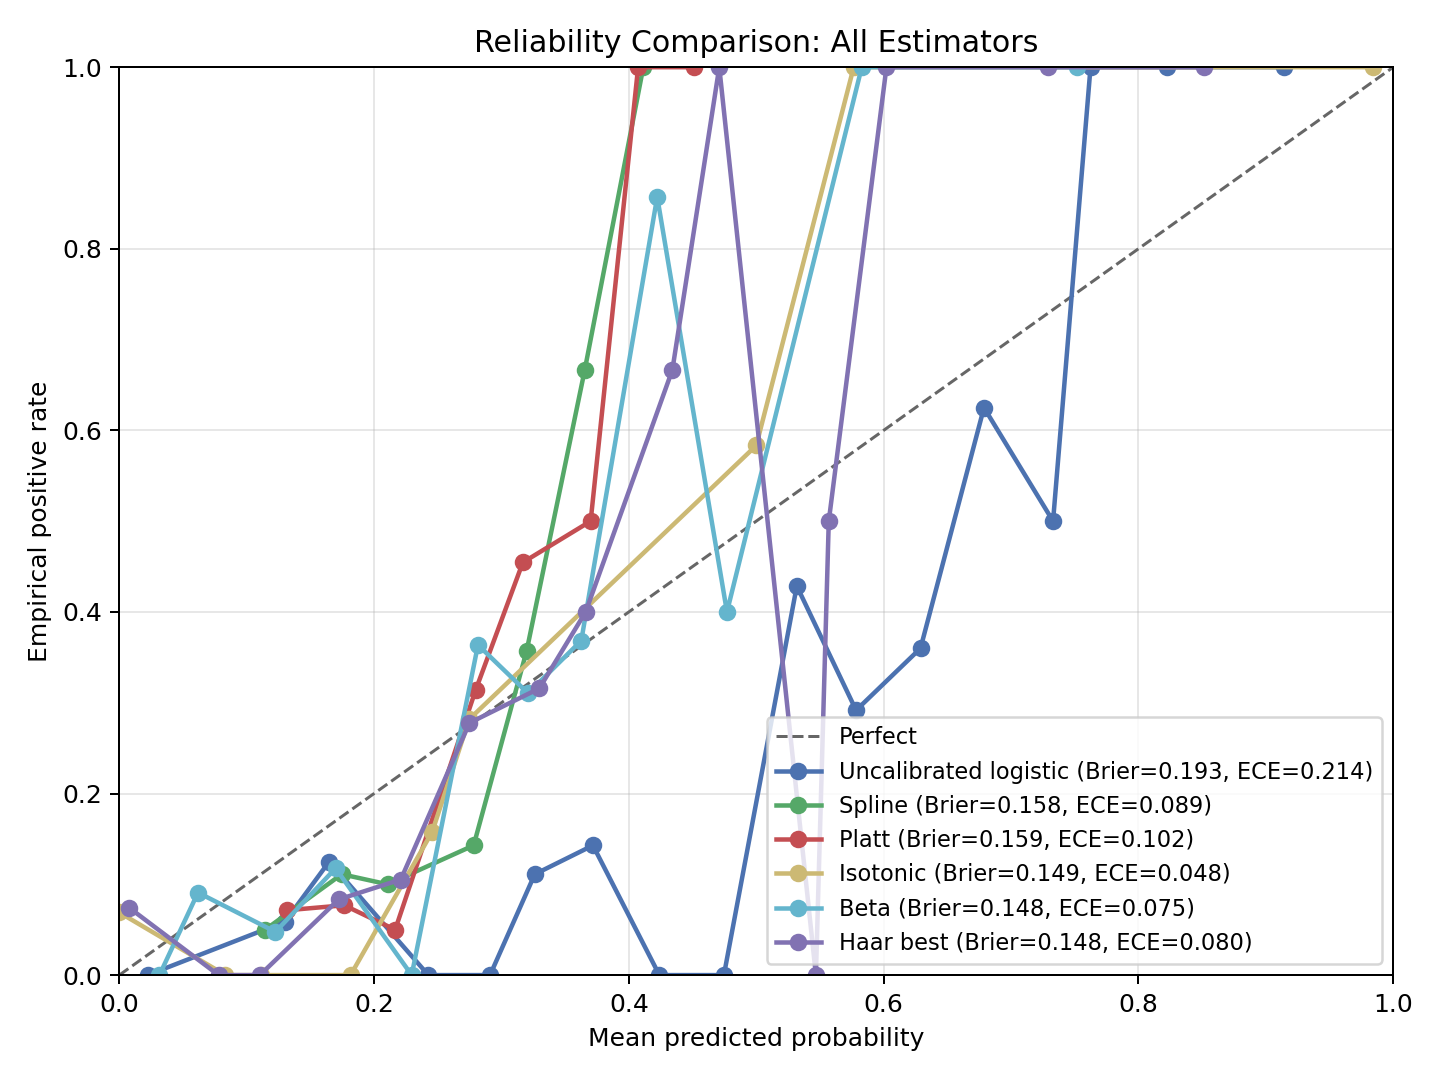
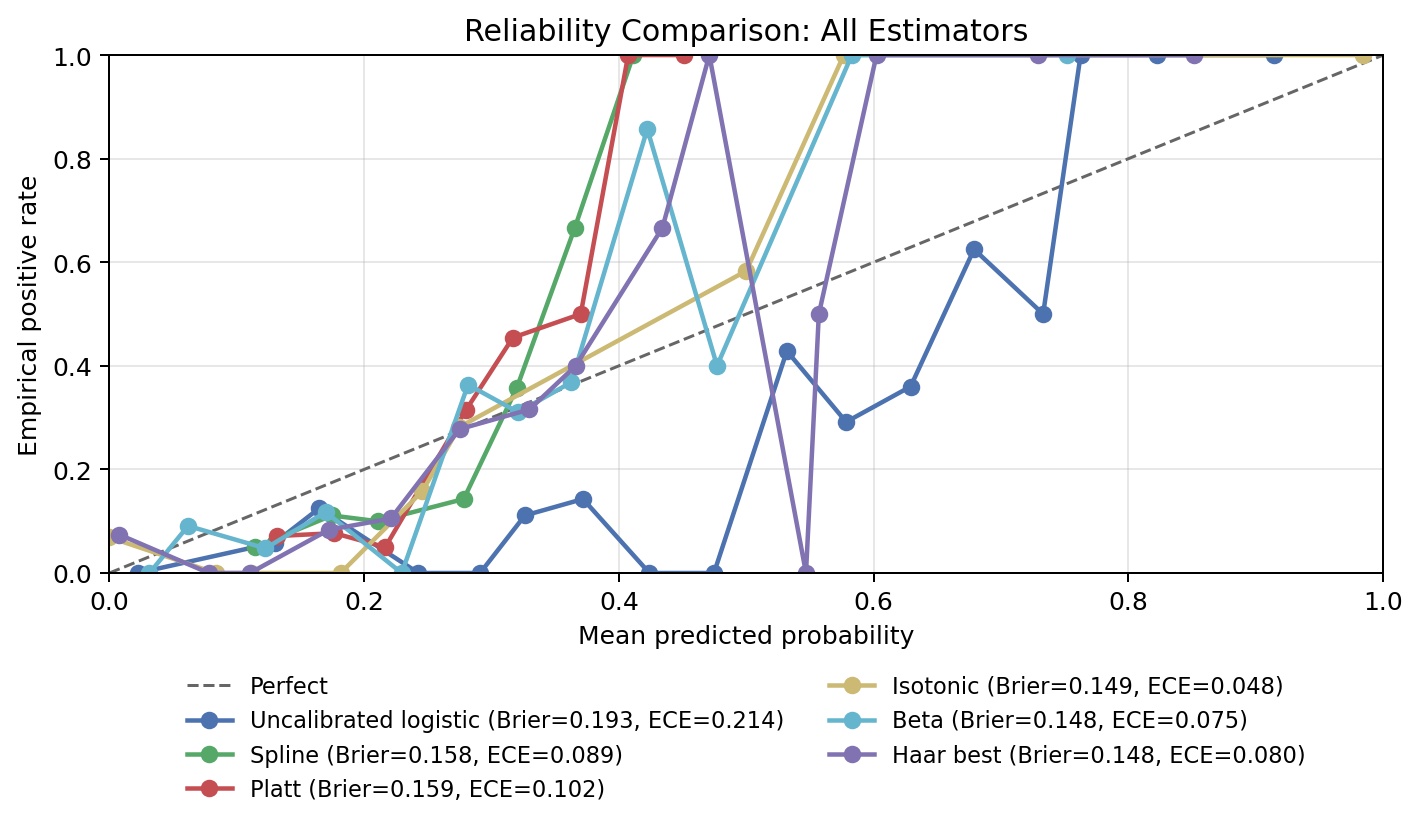
Polishing the plotting method

diff --git a/analysis/scripts/run_tabarena_haar_experiment.py b/analysis/scripts/run_tabarena_haar_experiment.py
@@ -1025,9 +1025,16 @@ def _save_reliability_comparison_plot(
     ax.set_ylabel("Empirical positive rate")
     ax.set_title("Reliability Comparison: All Estimators")
     ax.grid(alpha=0.3)
-    ax.legend(loc="lower right", fontsize=9)
-    fig.tight_layout()
-    fig.savefig(output_path, dpi=180)
+    ax.legend(
+        loc="upper center",
+        bbox_to_anchor=(0.5, -0.18),
+        borderaxespad=0.0,
+        fontsize=9,
+        frameon=False,
+        ncol=2,
+    )
+    fig.tight_layout(rect=(0.0, 0.16, 1.0, 1.0))
+    fig.savefig(output_path, dpi=180, bbox_inches="tight")
     plt.close(fig)
     return output_path
 
@@ -1152,9 +1159,15 @@ def _save_estimator_comparison_plot(
     ax.set_ylabel("Calibrated probability")
     ax.set_title("Estimator Mapping Comparison")
     ax.grid(alpha=0.3)
-    ax.legend(loc="lower right")
-    fig.tight_layout()
-    fig.savefig(output_plot_path, dpi=180)
+    ax.legend(
+        loc="upper center",
+        bbox_to_anchor=(0.5, -0.18),
+        borderaxespad=0.0,
+        frameon=False,
+        ncol=2,
+    )
+    fig.tight_layout(rect=(0.0, 0.16, 1.0, 1.0))
+    fig.savefig(output_plot_path, dpi=180, bbox_inches="tight")
     plt.close(fig)
     return output_plot_path, output_table_path
 

diff --git a/packages/splinecal/src/splinecal/plotting.py b/packages/splinecal/src/splinecal/plotting.py
@@ -103,7 +103,8 @@ def plot_reliability_diagram(
     acc = points[:, 1]
     valid = ~np.isnan(conf) & ~np.isnan(acc)
 
-    if ax is None:
+    created_figure = ax is None
+    if created_figure:
         fig, ax_main = plt.subplots(figsize=(7, 6))
     else:
         fig = ax.figure
@@ -160,8 +161,16 @@ def plot_reliability_diagram(
             bbox={"boxstyle": "round", "facecolor": "white", "alpha": 0.8, "edgecolor": "#bbbbbb"},
         )
 
-    ax_main.legend(loc="lower right")
+    ax_main.legend(
+        loc="upper center",
+        bbox_to_anchor=(0.5, -0.14),
+        borderaxespad=0.0,
+        frameon=False,
+        ncol=2,
+    )
     ax_main.set_title(title or f"Reliability Diagram ({n_bins} bins)")
+    if created_figure:
+        fig.tight_layout(rect=(0.0, 0.08, 1.0, 1.0))
     return fig, ax_main
 
 
